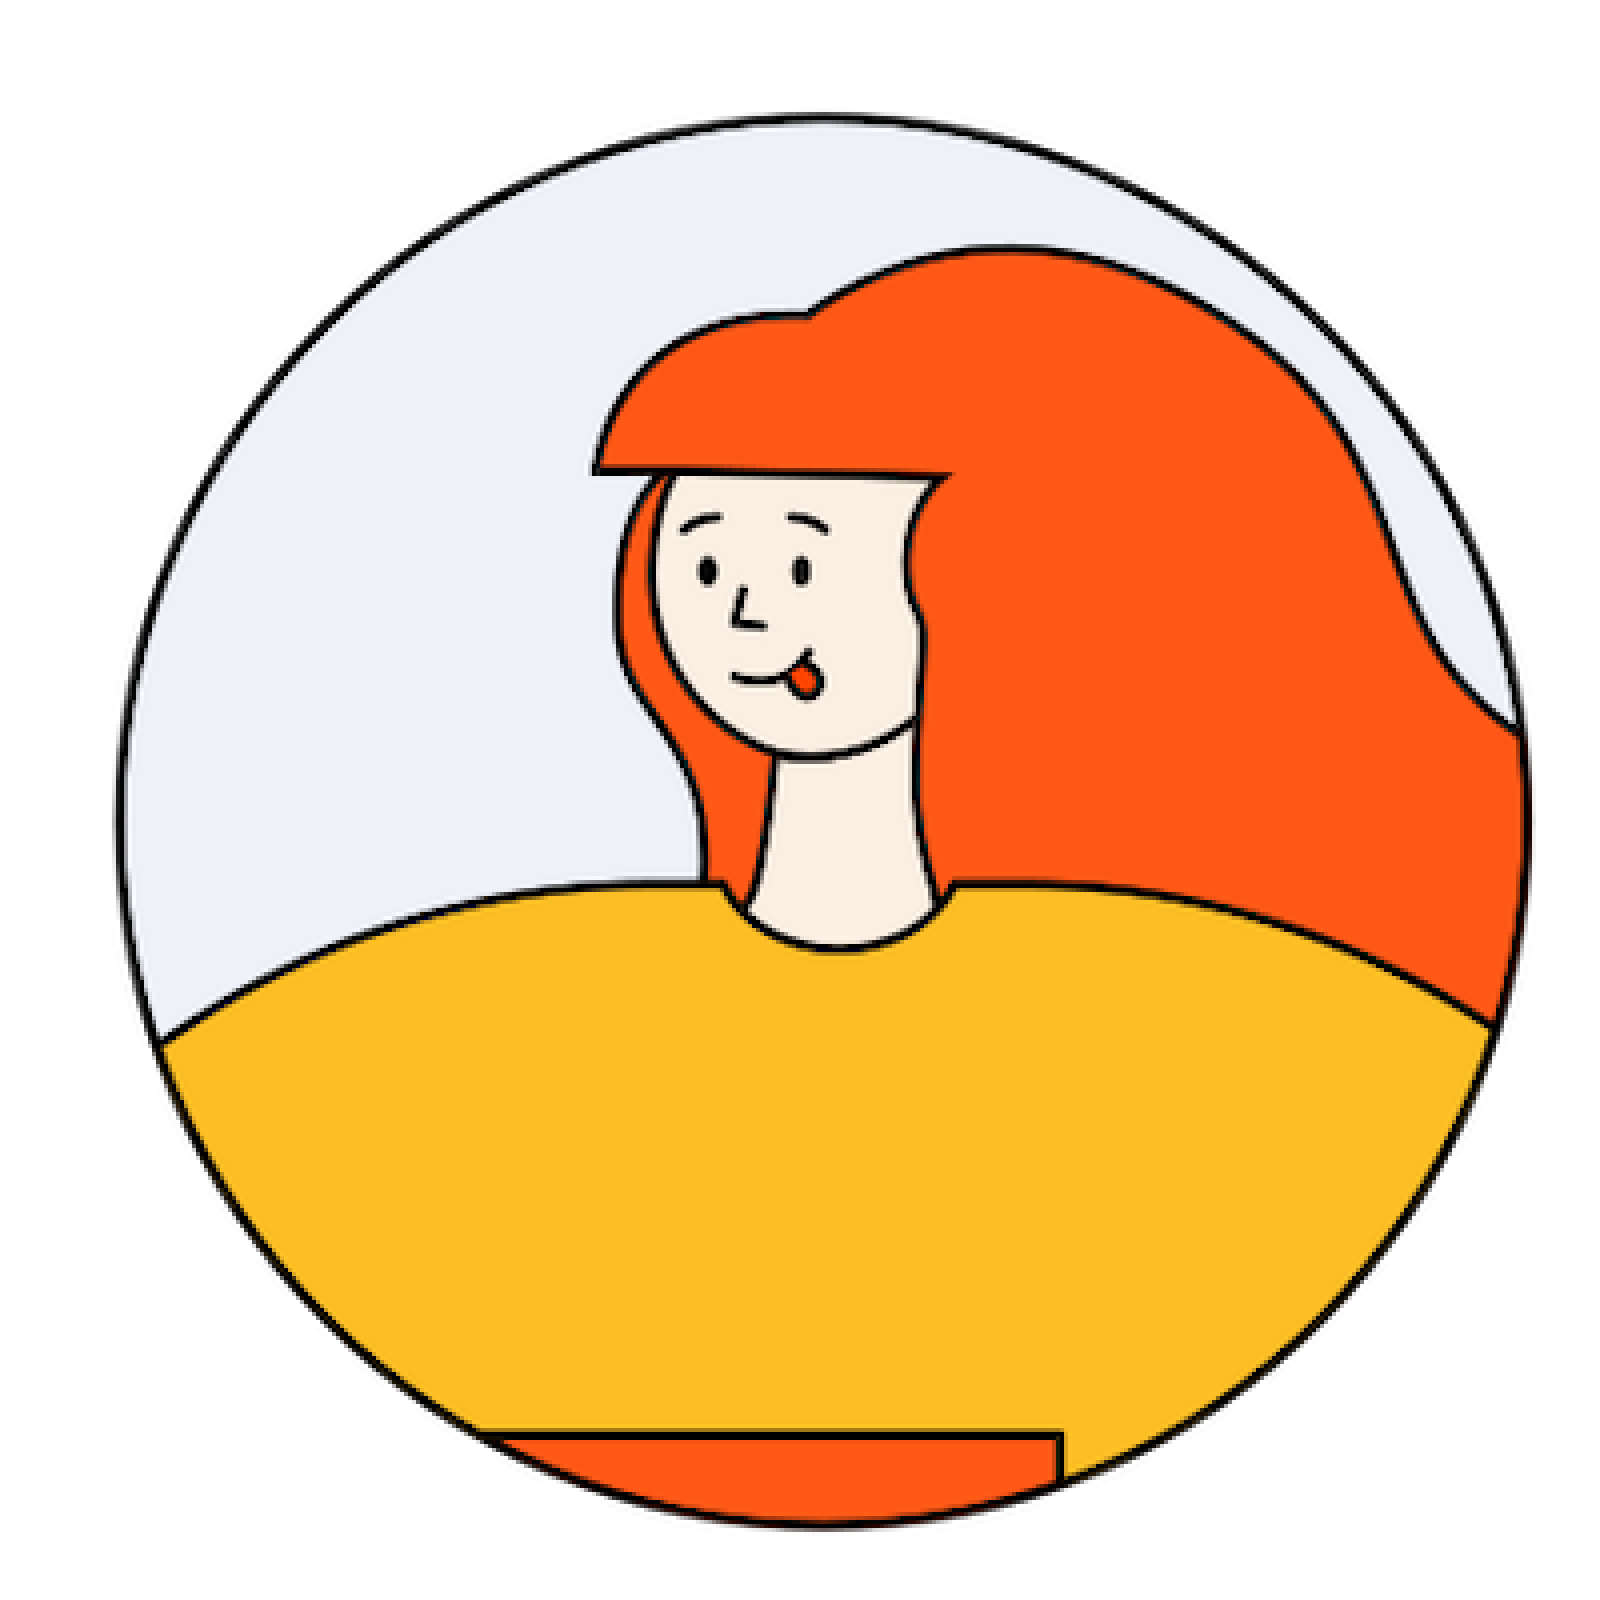
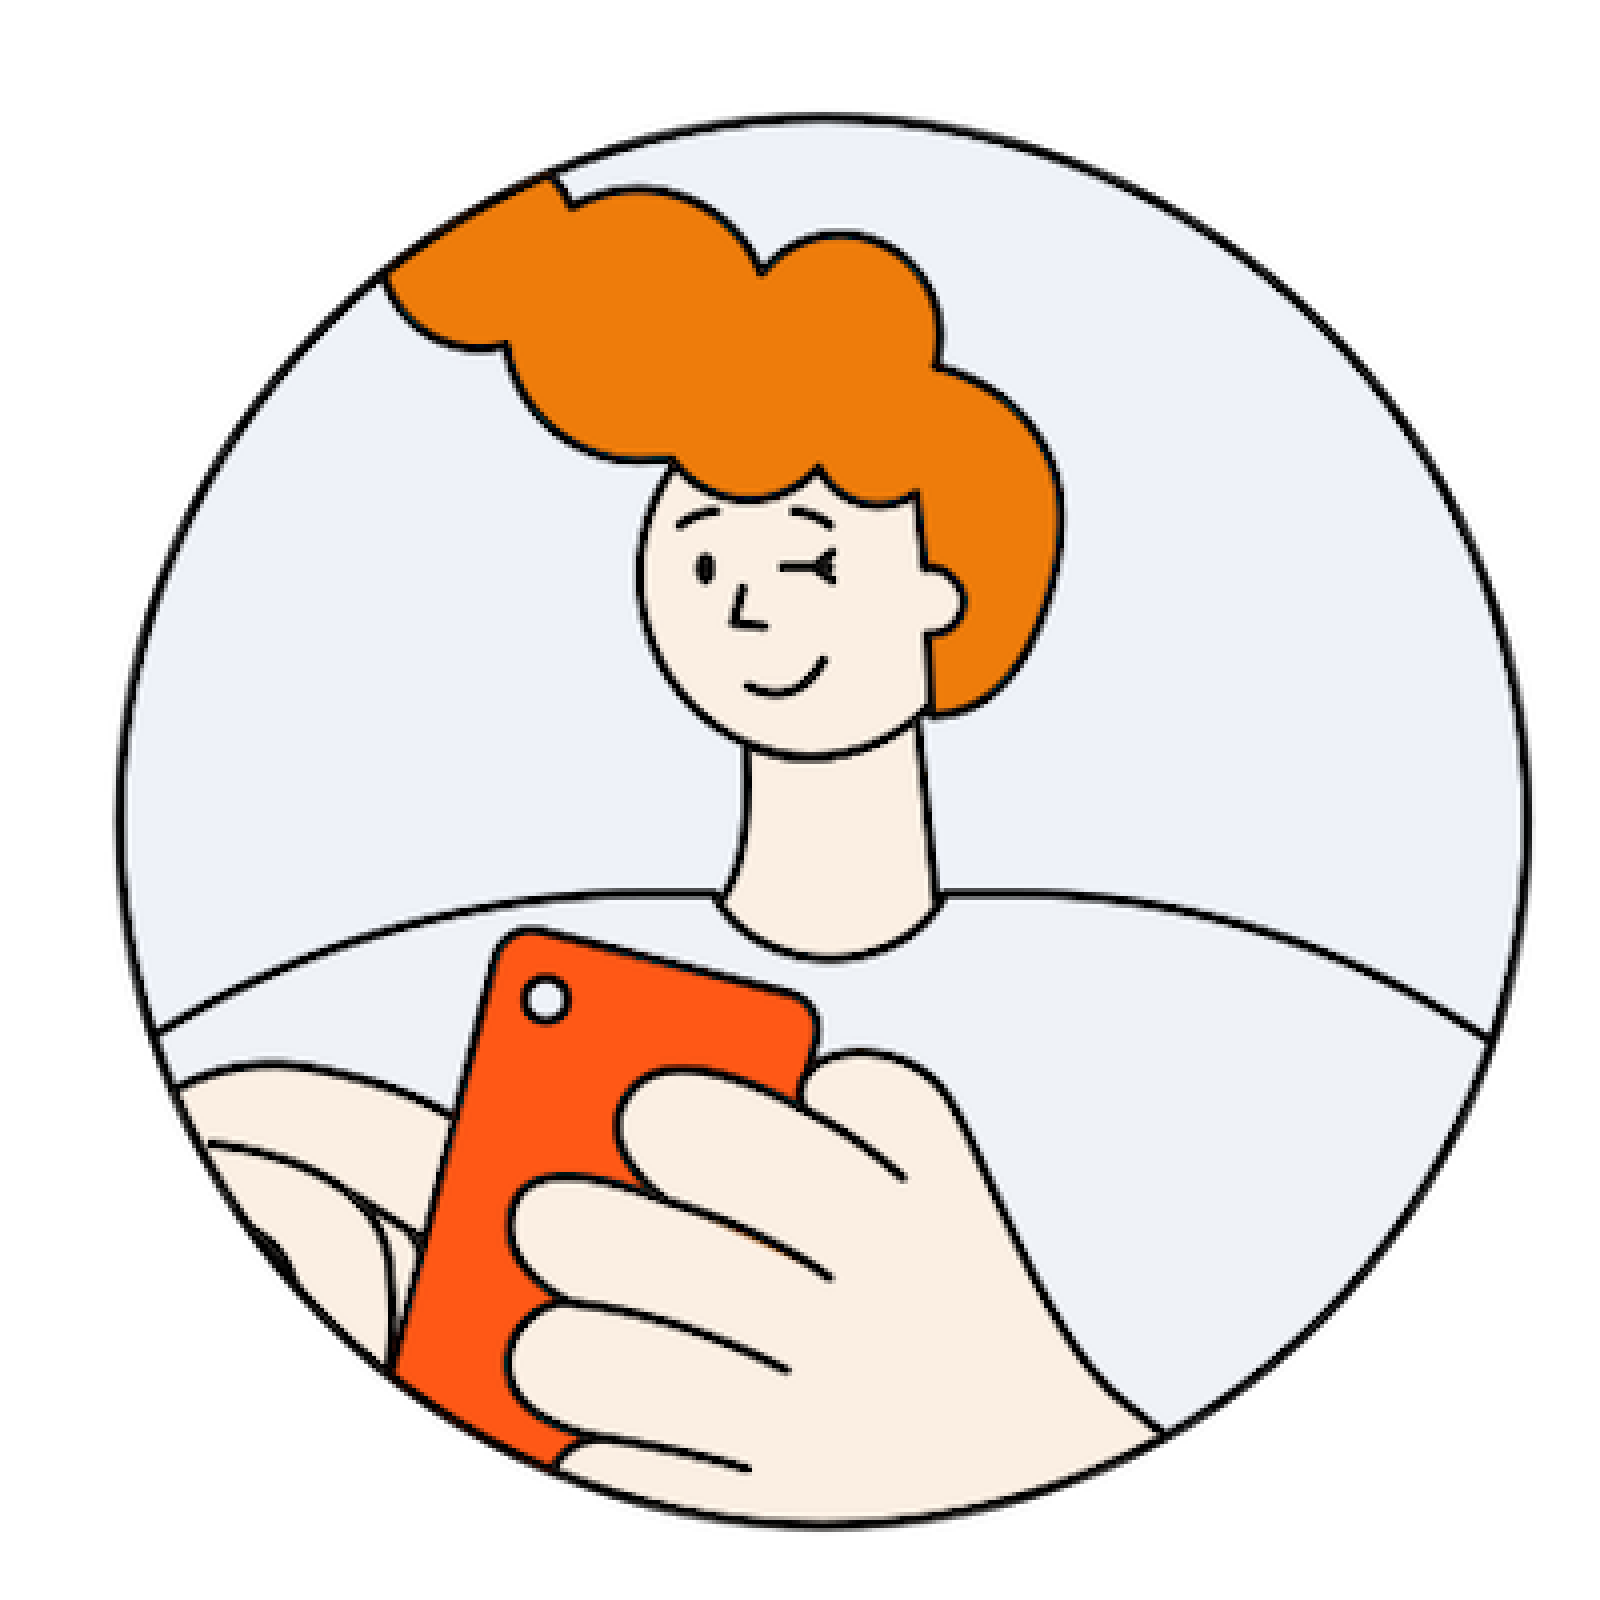
Improved UI for addavatar page

diff --git a/app/addavatar.tsx b/app/addavatar.tsx
@@ -8,30 +8,21 @@ import { getApps } from "firebase/app";
 import { getFirestore, doc, serverTimestamp, setDoc, collection, updateDoc } from "firebase/firestore";
 import { LinearGradient } from "expo-linear-gradient";
 import { Image } from "react-native";
-import { getStorage, ref, uploadBytes, getDownloadURL } from "firebase/storage";
 import { useUser } from "./context/UserContext";
 
-
 const AddAvatar = () => {
-  const [selectedAvatar, setSelectedAvatar] = useState(false);
-  // const { user, setUser } = useUser();
+  const [selectedAvatar, setSelectedAvatar] = useState("");
   const auth = getAuth();
   const user = auth.currentUser;
   const userId = user?.uid
 
   const router = useRouter();
-  function directToInterest() {
-    router.push("/interest");
-  }
- 
 
-  const avatarSelected = async (avatarName: string) => {
+  const directToInterest = async (avatarName: string) => {
     if (!userId) {
       console.error("User or userID is undefined");
       return;
     }
-
-    setSelectedAvatar(true)
     const db = getFirestore();
     const userRef = doc(db, "users", userId);
     try {
@@ -40,45 +31,97 @@ const AddAvatar = () => {
     } catch (error) {
       console.error("Error adding avatar: ", error);
     }
+    router.push("/interest");
+  }
+
+  const avatarSelected = async (avatarName: string) => {
+    setSelectedAvatar(avatarName)
   }
 
   return (
-    <LinearGradient locations={[0, 1]} colors={["#fff9e9", "#fff"]}>
+    <LinearGradient locations={[0, 1]} colors={["#fff9e9", "#fff"]} style={styles.container}>
+
+       <View style={styles.topPortion}>
+        <Text style={[styles.title]}>Add an Avatar</Text>
+        <Text style={[styles.subTitle]}>
+          Lorem ipsum dolor sit amet consectetur. Quisque mi metus aliquam sed
+          neque.
+        </Text>
+      </View>
+
       <View style={styles.avatarsContainer}>
           <TouchableOpacity onPress={() => avatarSelected("avatar1")}>
-            <Image style={[styles.avatar]} source={require("../assets/images/avatars/avatar1.png")}/>
+              <Image style={[styles.avatar]} source={selectedAvatar === "avatar1" ? require("../assets/images/avatars/avatar1Selected.png") : require("../assets/images/avatars/avatar1.png")}/>
           </TouchableOpacity>
           <TouchableOpacity onPress={() => avatarSelected("avatar2")}>
-            <Image style={[styles.avatar]} source={require("../assets/images/avatars/avatar2.png")}/>
+              <Image style={[styles.avatar]} source={selectedAvatar === "avatar2" ? require("../assets/images/avatars/avatar2Selected.png") : require("../assets/images/avatars/avatar2.png")}/>
           </TouchableOpacity>
           <TouchableOpacity onPress={() => avatarSelected("avatar3")}>
-            <Image style={[styles.avatar]} source={require("../assets/images/avatars/avatar3.png")}/>
+              <Image style={[styles.avatar]} source={selectedAvatar === "avatar3" ? require("../assets/images/avatars/avatar3Selected.png") : require("../assets/images/avatars/avatar3.png")}/>
           </TouchableOpacity>
           <TouchableOpacity onPress={() => avatarSelected("avatar4")}>
-            <Image style={[styles.avatar]} source={require("../assets/images/avatars/avatar4.png")}/>
+              <Image style={[styles.avatar]} source={selectedAvatar === "avatar4" ? require("../assets/images/avatars/avatar4Selected.png") : require("../assets/images/avatars/avatar4.png")}/>
+          </TouchableOpacity>
+          <TouchableOpacity onPress={() => avatarSelected("avatar5")}>
+              <Image style={[styles.avatar]} source={selectedAvatar === "avatar5" ? require("../assets/images/avatars/avatar5Selected.png") : require("../assets/images/avatars/avatar5.png")}/>
+          </TouchableOpacity>
+          <TouchableOpacity onPress={() => avatarSelected("avatar6")}>
+              <Image style={[styles.avatar]} source={selectedAvatar === "avatar6" ? require("../assets/images/avatars/avatar6Selected.png") : require("../assets/images/avatars/avatar6.png")}/>
+          </TouchableOpacity>
+          <TouchableOpacity onPress={() => avatarSelected("avatar7")}>
+              <Image style={[styles.avatar]} source={selectedAvatar === "avatar7" ? require("../assets/images/avatars/avatar7Selected.png") : require("../assets/images/avatars/avatar7.png")}/>
+          </TouchableOpacity>
+          <TouchableOpacity onPress={() => avatarSelected("avatar8")}>
+              <Image style={[styles.avatar]} source={selectedAvatar === "avatar8" ? require("../assets/images/avatars/avatar8Selected.png") : require("../assets/images/avatars/avatar8.png")}/>
+          </TouchableOpacity>
+          <TouchableOpacity onPress={() => avatarSelected("avatar9")}>
+              <Image style={[styles.avatar]} source={selectedAvatar === "avatar9" ? require("../assets/images/avatars/avatar9Selected.png") : require("../assets/images/avatars/avatar9.png")}/>
           </TouchableOpacity>
       </View>
-      <TouchableOpacity style={styles.nextButton} onPress={directToInterest}>
-          <Text style={styles.nextButtonText}>Next</Text>
-        </TouchableOpacity>
+
+
+      <TouchableOpacity style={[ styles.nextButton,{ backgroundColor: selectedAvatar === "" ? "#E6E6E6" : "#FFC940" } ]} onPress={() => directToInterest(selectedAvatar)}>
+              <Text style={[ styles.nextButtonText,{ color: selectedAvatar === "" ? "#9A969F" : "#3A3340",  } ]}>Next</Text>
+      </TouchableOpacity>
     </LinearGradient>
   );
 };
 
 const styles = StyleSheet.create({
+  container: {
+    flex: 1,
+    justifyContent: "flex-start",
+  },
+  topPortion:{
+    padding: 40,
+    paddingBottom: 20,
+  },
+  title: {
+    fontSize: 28,
+    fontWeight: "bold",
+    marginBottom: 20,
+    color: "#453B4F",
+  },
+  subTitle: {
+    fontSize: 16,
+    marginBottom: 20,
+    color: "#453B4F",
+  },
   avatarsContainer: {
     flex: 1,
-    marginTop: 50,
     flexDirection: "row",
+    flexWrap: "wrap",
+    justifyContent: "center",
+    alignSelf: "center",
   },
   avatar: {
-    width: 80,
-    height: 80,
+    width: 90,
+    height: 90,
     marginHorizontal: 16,
   },
   nextButton: {
     backgroundColor: "#FFC940",
-    marginTop: 40,
+    marginTop: 10,
     marginBottom: 40,
     width: 240,
     borderRadius: 25,

diff --git a/app/(tabs)/profile.tsx b/app/(tabs)/profile.tsx
@@ -67,9 +67,9 @@ export default function App() {
         <View style={styles.profileImg}>
           <Image source={avatarImages[avatar]} style={styles.profileImage}/>
           {/* Display the icon for editing the profile picture */}
-          <TouchableOpacity style={styles.editBtn}>
+          {/* <TouchableOpacity style={styles.editBtn}>
             <MaterialIcons name="edit" size={20} color="#ffffff" />
-          </TouchableOpacity>
+          </TouchableOpacity> */}
         </View>
 
         {/* Display the user's full name and intro */}
@@ -179,7 +179,6 @@ const styles = StyleSheet.create({
     width: "100%",
     justifyContent: "center",
     alignSelf: "center",
-    paddingVertical: 40,
   },
   profileImg: {
     flexDirection: "row",
@@ -191,19 +190,18 @@ const styles = StyleSheet.create({
     borderRadius: 100,
     overflow: "hidden",
     justifyContent: "center",
-    marginHorizontal: -10,
   },
-  editBtn: {
-    backgroundColor: "#41444B",
-    position: "absolute",
-    bottom: 0,
-    right: 0,
-    width: 30,
-    height: 30,
-    borderRadius: 30,
-    alignItems: "center",
-    justifyContent: "center",
-  },
+  // editBtn: {
+  //   backgroundColor: "#41444B",
+  //   position: "absolute",
+  //   bottom: 0,
+  //   right: 0,
+  //   width: 30,
+  //   height: 30,
+  //   borderRadius: 30,
+  //   alignItems: "center",
+  //   justifyContent: "center",
+  // },
   userName: {
     fontWeight: "bold",
     fontSize: 30,
@@ -218,7 +216,6 @@ const styles = StyleSheet.create({
   infoContainer: {
     alignSelf: "center",
     alignItems: "center",
-    marginTop: 16,
   },
   interestsContainer: {
     alignItems: "center",

diff --git a/app/SignUp.tsx b/app/SignUp.tsx
@@ -125,7 +125,7 @@ const SignupForm = () => {
         // Passwords match
         await SignUp();
         await handleNewUserEmail();
-        //router.push("/addavatar");
+        router.push("/addavatar");
       } else {
         // Passwords don't match
         Alert.alert("Error", "Passwords do not match");
